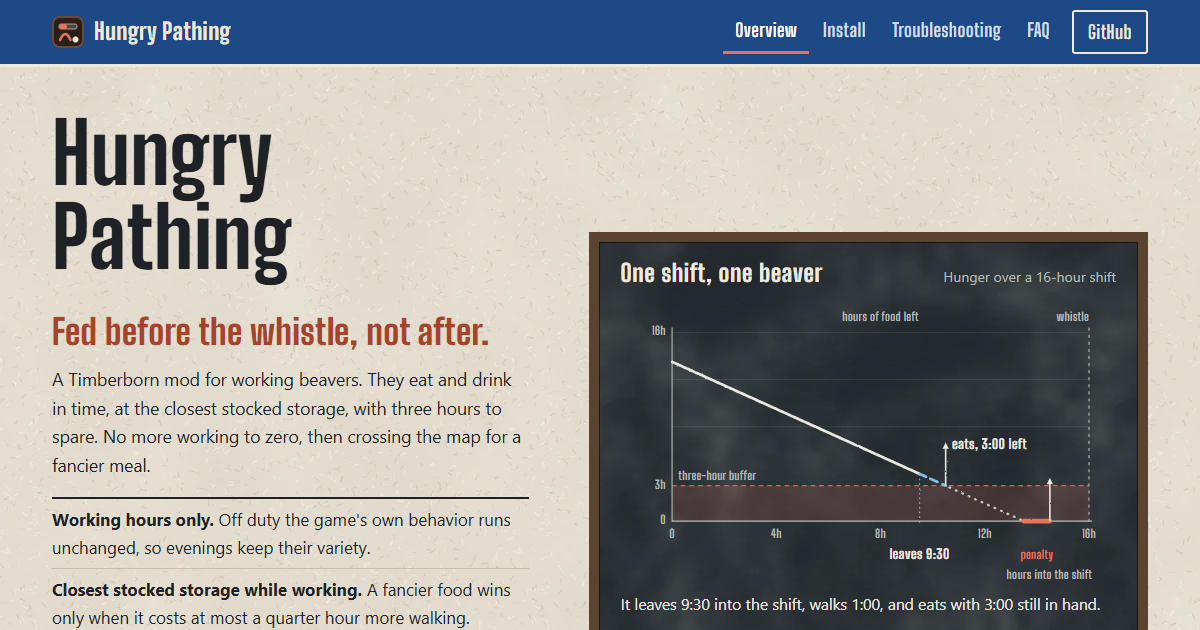
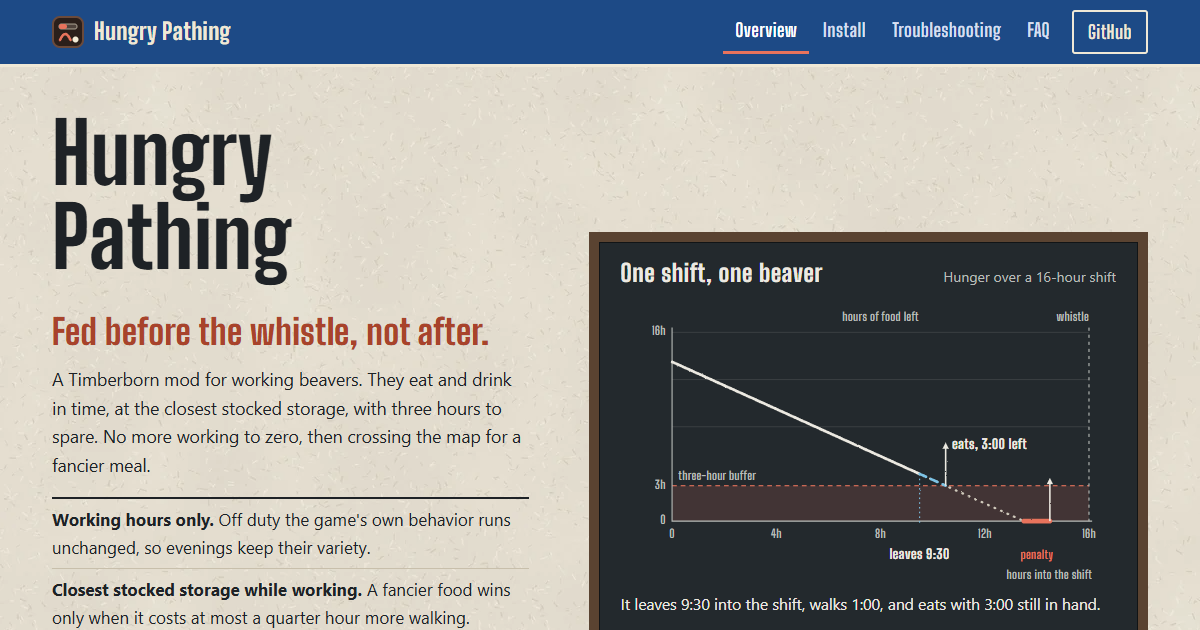
No chalkboard texture; enamel signs go dark at night
The slate's chalk-smear texture read as smoke (Kyler): the slate is a flat colour everywhere (board,
after-hours notice, tally, code and log lines), slate.webp is gone from the site and from
make_textures.py, and CLAUDE.md, DESIGN.md and design.json forbid texturing it again. The cream
enamel signs looked wrong in dark mode: they now have a night plate (enamel-night.png, a dark field
in the same cobalt border) with light lettering. og.png is recaptured.

diff --git a/docs/assets/style.css b/docs/assets/style.css
@@ -28,8 +28,10 @@
   --cobalt-deep: #143663;
   --enamel: #efe8d6;
   --enamel-ink: #1b2a3e;
+  --sign-plate: url("textures/enamel.png");
+  --sign-ink: var(--enamel-ink);
+  --sign-head: var(--cobalt);
   --slate: #23292d;
-  --slate-tex: url("textures/slate.webp");
   --chalk: #ece9e1;
   --chalk-muted: #b8bcb8;
   --coral: #e8735c;
@@ -55,6 +57,9 @@
     --focus: #93b9ee;
     --coral-ink: #f29077;
     --water-ink: #8fcdeb;
+    --sign-plate: url("textures/enamel-night.png");
+    --sign-ink: #ebe6dc;
+    --sign-head: #93b9ee;
   }
 }
 
@@ -120,7 +125,7 @@ a.btn.btn-secondary:hover, button.btn.btn-secondary:hover { background: var(--ba
 html:not([data-release-ready]) .ver { display: none; }
 
 /* the slate board: one shift in chalk, in a timber frame */
-.board { margin: 0; background: var(--slate) var(--slate-tex); color: var(--chalk); border: 10px solid var(--frame); box-shadow: inset 0 0 0 1px rgba(0, 0, 0, .5), 0 1px 0 rgba(0, 0, 0, .25); padding: 18px 18px 16px; }
+.board { margin: 0; background: var(--slate); color: var(--chalk); border: 10px solid var(--frame); box-shadow: inset 0 0 0 1px rgba(0, 0, 0, .5), 0 1px 0 rgba(0, 0, 0, .25); padding: 18px 18px 16px; }
 .board-head { display: flex; flex-wrap: wrap; align-items: baseline; justify-content: space-between; gap: 2px 16px; margin: 0 4px 4px; }
 .board-head b { font: 800 1.5rem/1.1 var(--display); letter-spacing: .03em; }
 .board-head span { font-size: .88rem; color: var(--chalk-muted); }
@@ -161,16 +166,16 @@ section { padding: clamp(56px, 8vw, 100px) 0; }
 
 /* enamel signs: each rule has one sign, one job */
 .signs { display: grid; grid-template-columns: repeat(3, minmax(0, 1fr)); gap: 22px; list-style: none; margin: 0; padding: 0; }
-.sign { margin: 0; border: 24px solid transparent; border-image: url("textures/enamel.png") 24 fill round; color: var(--enamel-ink); padding: 4px 6px 8px; }
-.sign h3 { color: var(--cobalt); font-size: 1.7rem; letter-spacing: .03em; text-transform: uppercase; margin-bottom: .35em; }
+.sign { margin: 0; border: 24px solid transparent; border-image: var(--sign-plate) 24 fill round; color: var(--sign-ink); padding: 4px 6px 8px; }
+.sign h3 { color: var(--sign-head); font-size: 1.7rem; letter-spacing: .03em; text-transform: uppercase; margin-bottom: .35em; }
 .sign p { margin: 0; font-size: .98rem; }
-.sign a { color: var(--cobalt); }
-.sign.after-hours { border-image-source: none; border: 8px solid var(--frame); padding: 22px 24px; background: var(--slate) var(--slate-tex); color: var(--chalk); }
+.sign a { color: var(--sign-head); }
+.sign.after-hours { border-image-source: none; border: 8px solid var(--frame); padding: 22px 24px; background: var(--slate); color: var(--chalk); }
 .sign.after-hours h3 { color: var(--chalk); }
 .sign.after-hours p { color: var(--chalk-muted); }
 
 /* the tally: the measured colony, in chalk */
-.tally { background: var(--slate) var(--slate-tex); color: var(--chalk); border: 10px solid var(--frame); padding: clamp(18px, 3vw, 30px); }
+.tally { background: var(--slate); color: var(--chalk); border: 10px solid var(--frame); padding: clamp(18px, 3vw, 30px); }
 .tally table { font-size: 1rem; }
 .tally th, .tally td { text-align: left; padding: 12px 16px 12px 0; border-bottom: 1px dashed rgba(236, 233, 225, .28); vertical-align: middle; }
 .tally thead th { font: 700 1.15rem/1.2 var(--display); letter-spacing: .03em; color: var(--chalk-muted); border-bottom: 2px solid rgba(236, 233, 225, .5); }
@@ -240,7 +245,7 @@ section { padding: clamp(56px, 8vw, 100px) 0; }
 .prose table { margin: 0 0 1.4rem; font-size: .95rem; }
 .prose th, .prose td { text-align: left; padding: 10px 14px 10px 0; border-bottom: 1px solid var(--rule); vertical-align: top; }
 .prose thead th { font: 700 1.15rem/1.2 var(--display); letter-spacing: .02em; border-bottom: 2px solid var(--rule-strong); }
-pre { margin: 0 0 1.2rem; padding: 14px 16px; background: var(--slate) var(--slate-tex); color: var(--chalk); border-radius: 2px; overflow-x: auto; line-height: 1.5; font-size: .9rem; }
+pre { margin: 0 0 1.2rem; padding: 14px 16px; background: var(--slate); color: var(--chalk); border-radius: 2px; overflow-x: auto; line-height: 1.5; font-size: .9rem; }
 pre code { background: none; padding: 0; font-size: inherit; color: inherit; white-space: pre-wrap; word-break: break-word; }
 .callout { margin: 0 0 1.4rem; padding: 18px 20px; border: 2px solid var(--rule-strong); background: var(--band); }
 .callout > :last-child { margin-bottom: 0; }
@@ -249,7 +254,7 @@ pre code { background: none; padding: 0; font-size: inherit; color: inherit; whi
 /* assets/release.js fills in the file name and then marks the page; until then there is no name to show. */
 html:not([data-release-ready]) .file-name { display: none; }
 .confirm { margin: 0 0 1.2rem; }
-.confirm dt { font-family: var(--mono); font-size: .9rem; padding: 10px 12px; background: var(--slate) var(--slate-tex); color: var(--chalk); overflow-wrap: anywhere; }
+.confirm dt { font-family: var(--mono); font-size: .9rem; padding: 10px 12px; background: var(--slate); color: var(--chalk); overflow-wrap: anywhere; }
 .confirm dd { margin: 0 0 12px; padding: 8px 0 0; color: var(--muted); }
 
 .issue { padding: 22px 0; border-top: 2px solid var(--rule-strong); }
@@ -277,7 +282,7 @@ details.q .a > :last-child { margin-bottom: 0; }
 details.q[open] { border-top: 3px solid var(--cobalt); }
 
 /* ---------- footer ---------- */
-.site-footer { background: var(--slate) var(--slate-tex); color: var(--chalk-muted); border-top: 10px solid var(--frame); padding: 40px 0; font-size: .96rem; }
+.site-footer { background: var(--slate); color: var(--chalk-muted); border-top: 10px solid var(--frame); padding: 40px 0; font-size: .96rem; }
 .foot { display: grid; grid-template-columns: minmax(0, 1fr) auto; gap: 20px 40px; align-items: start; }
 .foot p { margin: 0 0 .4em; }
 .foot strong { color: var(--chalk); font: 800 1.35rem/1.2 var(--display); letter-spacing: .02em; }

diff --git a/docs/assets/textures/make_textures.py b/docs/assets/textures/make_textures.py
@@ -1,5 +1,4 @@
-"""Makes the Hungry Pathing site's surfaces: the canteen's slate board (with old chalk dust wiped across it), the
-enamel sign plate (cream vitreous enamel in a cobalt border, chipped to iron at the corners, used as a nine-slice),
+"""Makes the Hungry Pathing site's surfaces: the enamel sign plate (cream vitreous enamel in a cobalt border, chipped to iron at the corners, used as a nine-slice),
 and the works-yard ground by day and night. Procedural (numpy and Pillow, fixed seeds); no source images and no
 generative model. Run from this folder: python make_textures.py"""
 import numpy as np
@@ -14,43 +13,35 @@ def wrap_noise(rng, n, cell):
 def save(img, name, **kw):
     img.save(name, **kw); print("made", name)
 
-# ---- slate: blue-black, a fine cleft grain running one way, and wide soft chalk smears from old wiping
-rng = np.random.default_rng(4201); N = 512
-y, x = np.mgrid[0:N, 0:N].astype(float)
-grain = wrap_noise(rng, N, 4) * .6 + np.sin((y + 6 * wrap_noise(rng, N, 64) * 20) / 2.2) * .12
-smear = np.zeros((N, N))
-for _ in range(9):   # wiped arcs of dust, as a cloth leaves them
-    cx, cy, r, w, a = rng.uniform(0, N), rng.uniform(0, N), rng.uniform(120, 300), rng.uniform(14, 40), rng.uniform(.03, .08)
-    dx = np.minimum(abs(x - cx), N - abs(x - cx)); dy = np.minimum(abs(y - cy), N - abs(y - cy))
-    smear += a * np.exp(-((np.sqrt(dx * dx + dy * dy) - r) / w) ** 2)
-smear *= (.6 + wrap_noise(rng, N, 16) * 1.2).clip(0, 2)
-base = np.array([35, 41, 45], float)
-rgb = base + grain[..., None] * 6 + smear[..., None] * np.array([150, 150, 145]) + rng.normal(0, 1.4, (N, N, 1))
-save(Image.fromarray(rgb.clip(0, 255).astype(np.uint8)), "slate.webp", quality=88, method=6)
+# No slate texture: the slate is a flat colour (#23292d). Its chalk smears read as smoke (Kyler, 2026-09-24).
 
 # ---- enamel plate, 96x96 nine-slice (slice 24): cream field with a faint speckle, a cobalt border with a thin cream
 # inner line, and dark iron showing through small chips at the corners
-rng = np.random.default_rng(4202); S = 96
-img = np.zeros((S, S, 4), float)
-yy, xx = np.mgrid[0:S, 0:S].astype(float)
-edge = np.minimum.reduce([xx, yy, S - 1 - xx, S - 1 - yy])
-field = np.array([239, 232, 214], float) + rng.normal(0, 2.2, (S, S, 1)) + wrap_noise(rng, S, 8)[..., None] * 6
-cobalt = np.array([29, 74, 134], float) + rng.normal(0, 3, (S, S, 1))
-img[..., :3] = np.where((edge < 9)[..., None], cobalt, field)
-img[..., :3] = np.where(((edge >= 11) & (edge < 12.5))[..., None], cobalt * .9 + 20, img[..., :3])   # the inner keyline
-img[..., 3] = 255
-iron = np.array([46, 40, 36], float)
-for cx, cy in ((3, 5), (S - 6, 3), (4, S - 5), (S - 4, S - 7), (14, 2), (S - 2, 18)):
-    r = rng.uniform(2.2, 4.2)
-    d = np.sqrt((xx - cx) ** 2 + ((yy - cy) * rng.uniform(.8, 1.3)) ** 2)
-    chip = d < r + wrap_noise(rng, S, 4) * 2
-    img[..., :3] = np.where(chip[..., None], iron + rng.normal(0, 6, (S, S, 1)), img[..., :3])
-# the plate's corners are rounded off, as pressed enamel is
-corner = 5
-for cx, cy in ((corner, corner), (S - 1 - corner, corner), (corner, S - 1 - corner), (S - 1 - corner, S - 1 - corner)):
-    q = ((xx - cx) * np.sign(cx - S / 2) > 0) & ((yy - cy) * np.sign(cy - S / 2) > 0)
-    img[..., 3] = np.where(q & (np.hypot(xx - cx, yy - cy) > corner + .5), 0, img[..., 3])
-save(Image.fromarray(img.clip(0, 255).astype(np.uint8), "RGBA"), "enamel.png", optimize=True)
+def enamel_plate(field_rgb, keyline_lift, name):
+    rng = np.random.default_rng(4202); S = 96
+    img = np.zeros((S, S, 4), float)
+    yy, xx = np.mgrid[0:S, 0:S].astype(float)
+    edge = np.minimum.reduce([xx, yy, S - 1 - xx, S - 1 - yy])
+    field = np.array(field_rgb, float) + rng.normal(0, 2.2, (S, S, 1)) + wrap_noise(rng, S, 8)[..., None] * 6
+    cobalt = np.array([29, 74, 134], float) + rng.normal(0, 3, (S, S, 1))
+    img[..., :3] = np.where((edge < 9)[..., None], cobalt, field)
+    img[..., :3] = np.where(((edge >= 11) & (edge < 12.5))[..., None], cobalt * .9 + keyline_lift, img[..., :3])   # the inner keyline
+    img[..., 3] = 255
+    iron = np.array([46, 40, 36], float)
+    for cx, cy in ((3, 5), (S - 6, 3), (4, S - 5), (S - 4, S - 7), (14, 2), (S - 2, 18)):
+        r = rng.uniform(2.2, 4.2)
+        d = np.sqrt((xx - cx) ** 2 + ((yy - cy) * rng.uniform(.8, 1.3)) ** 2)
+        chip = d < r + wrap_noise(rng, S, 4) * 2
+        img[..., :3] = np.where(chip[..., None], iron + rng.normal(0, 6, (S, S, 1)), img[..., :3])
+    # the plate's corners are rounded off, as pressed enamel is
+    corner = 5
+    for cx, cy in ((corner, corner), (S - 1 - corner, corner), (corner, S - 1 - corner), (S - 1 - corner, S - 1 - corner)):
+        q = ((xx - cx) * np.sign(cx - S / 2) > 0) & ((yy - cy) * np.sign(cy - S / 2) > 0)
+        img[..., 3] = np.where(q & (np.hypot(xx - cx, yy - cy) > corner + .5), 0, img[..., 3])
+    save(Image.fromarray(img.clip(0, 255).astype(np.uint8), "RGBA"), name, optimize=True)
+
+enamel_plate([239, 232, 214], 20, "enamel.png")          # day: cream enamel
+enamel_plate([30, 38, 52], 60, "enamel-night.png")       # night: dark enamel, a lighter keyline (Kyler, 2026-09-24)
 
 # ---- the works yard: sawdust-grey by day, a sooty timber shed by night. Short chips of wood at random angles, drawn
 # antialiased at four times the size and wrapped at the edges so the tile repeats; low contrast, so text sits on it easily

diff --git a/docs/DESIGN.md b/docs/DESIGN.md
@@ -174,9 +174,9 @@ components:
 
 The site is the canteen yard of a timber mill at the end of a shift. Three materials carry everything: cream vitreous enamel with cobalt borders and lettering for signs and buttons, blue-black slate with chalk for anything measured or timed (the shift board, the before/after tally, log lines, the footer), and a dark timber frame that holds the slate. They sit on a works-yard ground of wood chips: sawdust-grey by day, sooty timber-shed dark by night. Light and dark follow the system setting; there is no toggle.
 
-The enamel and the slate are fixed materials: they look the same in both themes. Only the yard, the ink written directly on it, its rules and links change with the light. Times are always given as shift clock times or hours ("leaves 9:30", "3:00 left", "0.96 h"), and the one board holds every time in one gaze. Every sign has one job and one fixed layout.
+The slate is a fixed material: it looks the same in both themes. The enamel signs have a night plate: at night their field is dark (`enamel-night.png`) with light lettering, the cobalt border unchanged. Only the yard, the ink written directly on it, its rules and links change with the light. Times are always given as shift clock times or hours ("leaves 9:30", "3:00 left", "0.96 h"), and the one board holds every time in one gaze. Every sign has one job and one fixed layout.
 
-Texture is produced raster, never CSS imitation: `slate.webp`, `yard-day.webp`, `yard-night.webp` (512px repeating tiles) and the 96px `enamel.png` nine-slice all come from `assets/textures/make_textures.py` (numpy and Pillow, fixed seed, no source images). Big Shoulders Display (700 and 800, OFL) is self-hosted in `assets/fonts/`.
+Texture is produced raster, never CSS imitation: `yard-day.webp`, `yard-night.webp` (512px repeating tiles) and the 96px `enamel.png` and `enamel-night.png` nine-slices all come from `assets/textures/make_textures.py` (numpy and Pillow, fixed seed, no source images). Big Shoulders Display (700 and 800, OFL) is self-hosted in `assets/fonts/`.
 
 **Key Characteristics:**
 - Three fixed materials (enamel, slate, timber frame) on a theme-following yard ground
@@ -200,7 +200,7 @@ A cobalt-and-cream enamel pair and a slate-and-chalk pair are fixed across theme
 ### Neutral
 - **Vitreous Cream** (enamel): the sign plate, the text on cobalt, the selection text, and the header's bottom rule.
 - **Enamel Ink** (enamel-ink): body text on a sign plate.
-- **Blue-Black Slate** (slate, with `slate.webp`): the board, the tally, the "After the whistle" notice, code blocks, log lines to confirm, and the footer.
+- **Blue-Black Slate** (slate, a flat colour): the board, the tally, the "After the whistle" notice, code blocks, log lines to confirm, and the footer.
 - **Chalk** (chalk) and **Worn Chalk** (chalk-muted): primary and secondary writing on slate. Chalk rules on slate are chalk at 14% to 50% alpha, usually dashed.
 - **Timber Frame** (frame): the 10px frame around the board and tally, the 8px frame around the after-hours notice, and the footer's top border.
 - **Sawdust Yard** (yard, with `yard-day.webp`) and **Soot Shed** (yard-night, with `yard-night.webp`): the page ground.
@@ -321,6 +321,7 @@ Native `details` elements separated by rules. Each summary is at least 56px tall
 - **Do** let the board work without script: draw its default state in the markup, and use script only to reveal and drive the control.
 
 ### Don't:
+- **Don't** texture the slate: it is a flat colour, with no chalk dust, smears, smoke or grain (Kyler, 2026-09-24).
 - **Don't** add offset or drop shadows, glows, radial washes or CSS bevels. Depth is frame and material.
 - **Don't** use coral or water as decoration, or as raw text on the yard.
 - **Don't** use pill chips, identical numbered cards or the teal-and-gold palette. Those belonged to the borrowed look this world replaced.

diff --git a/CLAUDE.md b/CLAUDE.md
@@ -80,7 +80,9 @@ text and the player docs follows these rules.
     #bcd4f5, coral-ink #a8432b / #f29077, water-ink #1f6690 / #8fcdeb.
 - Fonts: Big Shoulders Display 700/800 (headings, brand, nav, buttons, labels, tally figures), self-hosted in
   `docs/assets/fonts/` with `OFL-BigShoulders.txt`. Body: system-ui; code: ui-monospace. No other webfonts, no CDN.
-- Textures: `slate.webp`, `yard-day.webp`, `yard-night.webp` (512px tiles) and `enamel.png` (96px nine-slice, slice
+- The slate is a flat colour: never a texture, chalk dust, smears, smoke or grain on it (Kyler, 2026-09-24: it
+  read as smoke).
+- Textures: `yard-day.webp`, `yard-night.webp` (512px tiles) and `enamel.png` / `enamel-night.png` (96px nine-slices, slice
   24) come from `docs/assets/textures/make_textures.py` (numpy + Pillow, fixed seeds; run it in that folder). Change
   the script and re-run it; never edit the images. Every shipping raster carries provenance: with
   `IMP=$(ls -d ~/.claude/plugins/cache/impeccable/impeccable/*/skills/impeccable | tail -1)`, run
